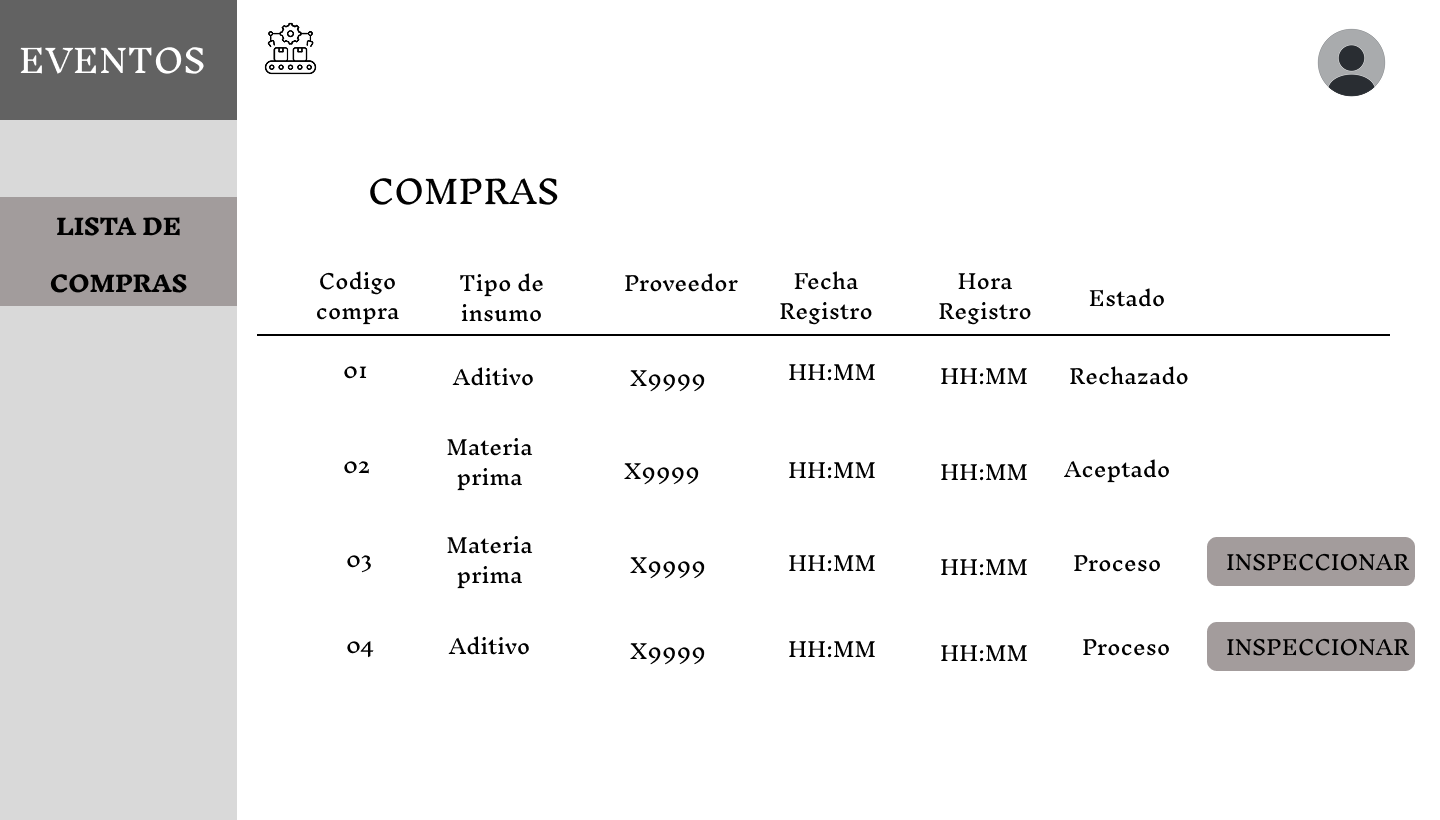
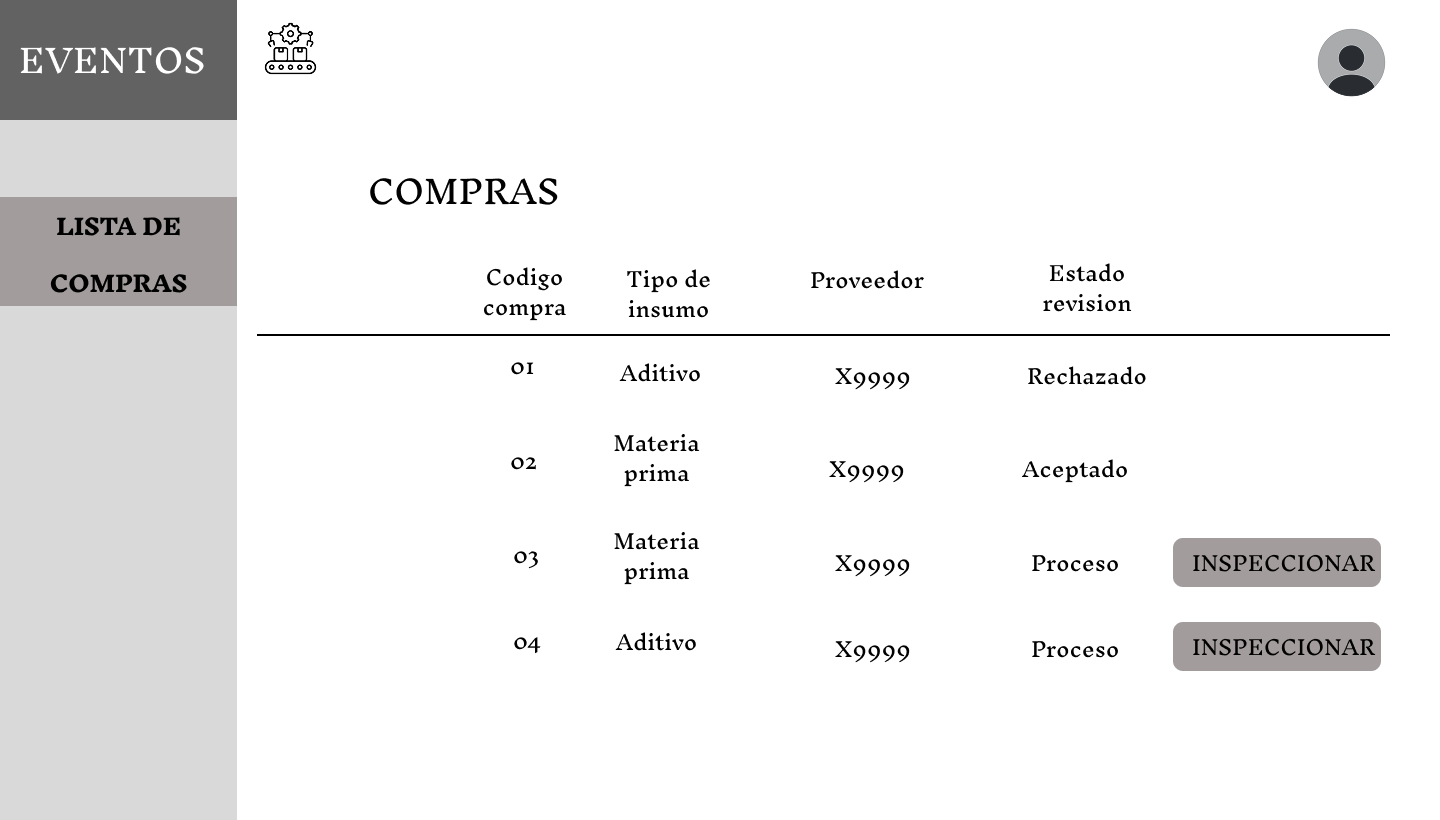
Cambios 1 (Módulo-Calidad)

diff --git a/3/3.3/3.3.md b/3/3.3/3.3.md
@@ -1,47 +1,67 @@
 # **3.3. Módulo de Control de Calidad**
 
-## **Caso de uso #1: Registrar Ingreso de Compra a Calidad**
+## **Caso de uso #1: Registrar Lote de Insumo Recibido en Calidad**
 
 | **ID**               | CU-01                                                                   |
 |----------------------|-------------------------------------------------------------------------|
 | **Actor(es)**        | Inspector de Calidad                                         |
-| **Descripción**      | Registrar la llegada de una compra al laboratorio de calidad para iniciar el proceso de inspección.         |
-| **Precondiciones**   | La compra debe estar registrada en el sistema.           |
-| **Flujo Principal**  | 1. El inspector accede a la pantalla de "Registro de Compra en Calidad". <br> 2. Visualiza los campos prellenados: Compra, Tipo de Insumo, Proveedor.  <br> 3. Ingresa la Fecha y Hora de ingreso al laboratorio. <br> 4. Confirma el registro.
+| **Descripción**      | Registrar la llegada de un lote de insumo al laboratorio para que pueda ser inspeccionado posteriormente.         |
+| **Precondiciones**   | 1. La compra debe estar registrada. <br> 2. El lote debe haber llegado físicamente al laboratorio.        |
+| **Flujo Principal**  | 1. El inspector accede a la pantalla “Lotes Pendientes de Registro en Calidad”. <br> 2. Selecciona el lote de insumo recibido.  <br> 3. Ingresa la Fecha y Hora de ingreso al laboratorio. <br> 4. Confirma el registro.
 | **Requerimientos Especiales** | Los datos de compra deben estar sincronizados con el módulo de compras.    |
-| **Frecuencia de Uso**| Cada vez que llega una compra a calidad.                     |
+| **Frecuencia de Uso**| Por cada lote que llega a calidad, incluso reposiciones.                  |
 
 ### **Flujo Principal:**
-1. El inspector accede a la pantalla de "Registro de Compra en Calidad".
-2. Visualiza los campos prellenados: Compra, Tipo de Insumo, Proveedor.
+1. El inspector accede a la pantalla “Lotes Pendientes de Registro en Calidad”.
+![Registro de Lotes de Insumo](Prototipos/Lote_insumo_pendiente_registro.png)
+2. Selecciona el lote de insumo recibido.
 3. Ingresa la Fecha y Hora de ingreso al laboratorio.
 4. Confirma el registro.
-![Registro de Compras](Prototipos/Registrar_compras.png)
+![Registro de Lotes de Insumo](Prototipos/Registrar_lote_insumo.png)
+
+
 
 ## **Caso de uso #2: Inspeccionar Lotes de Insumos**
 
 | **ID**               | CU-02                                                                   |
 |----------------------|-------------------------------------------------------------------------|
 | **Actor(es)**        | Inspector de Calidad                                       |
-| **Descripción**      | Inspeccionar los lotes de insumos que pertenecen a una compra y registrar su resultado. Si hay rechazo, permitir registrar un nuevo lote.           |
-| **Precondiciones**   | La compra debe haber sido ingresada al laboratorio de calidad.   |
-| **Flujo Principal**  | 1. Acceder a la pantalla de "Lista de Compras".  <br> 2. Seleccionar una compra en estado "Proceso" y ver los lotes de insumos.  <br> 3. Inspeccionar los lotes en estado "Pendiente".  <br> 4. Registrar el resultado: Aprobado o Rechazado, con comentarios y adjuntos.   <br> 5. Si es Rechazado, se habilita la opción de "Registrar nuevo lote".   <br> 6. Ingresar Fecha y Hora del nuevo lote. |
+| **Descripción**      | Inspeccionar los lotes de insumo ya registrados en el laboratorio y registrar el resultado de su evaluación.          |
+| **Precondiciones**   | 1. El lote debe estar registrado en calidad. <br> 2. Debe estar en estado "pendiente".   |
+| **Flujo Principal**  | 1. Acceder a la pantalla “Compras”.  <br> 2. Seleccionar una compra en estado "Proceso" y ver los lotes de insumos.  <br> 3. Visualizar sus lotes asociados en estado “Pendiente”.  <br> 4. Registrar el resultado: Aprobado o Rechazado, con comentarios y adjuntos. <br> 5. Confirmar y guardar inspección.   |
 | **Requerimientos Especiales** | El sistema debe actualizar el estado general de la compra según los resultados de los lotes. |
 | **Frecuencia de Uso**| Cada vez que se inspecciona una compra nueva o una reposición.                     |
 
 ### **Flujo Principal:**
-1. Acceder a la pantalla de "Lista de Compras".
+1. Acceder a la pantalla “Compras”.
 2. Seleccionar una compra en estado "Proceso" y ver los lotes de insumos.
 ![Lista de Compras](Prototipos/Lista_compras.png)
-3. Inspeccionar los lotes en estado "Pendiente".
-![Lista de Lotes de insumo](Prototipos/Lista_lotes_insumo.png)
+3. Visualizar sus lotes asociados en estado “Pendiente”.
+![Lista de Lotes de insumo](Prototipos/Lista_lotes_insumo_pendientes_inspeccion.png)
 4. Registrar el resultado: Aprobado o Rechazado, con comentarios y adjuntos.
+5. Confirmar y guardar inspección.
 ![Inspección de Lote de insumo](Prototipos/Inspeccionar_lote_insumo.png)
-5. Si es Rechazado, se habilita la opción de "Registrar nuevo lote".
-6. Ingresar Fecha y Hora del nuevo lote.
-![Registro de lote de insumo nuevo](Prototipos/Registrar_lote_insumo_nuevo.png)
 
-## **Caso de uso #3: Inspeccionar Proceso Productivo por Etapa (Mezclado, Moldeado y Secado)**
+## **Caso de uso #3: Visualizar Lotes Inspeccionados (Revisados)**
+
+| **ID**               | CU-03                                                                   |
+|----------------------|-------------------------------------------------------------------------|
+| **Actor(es)**        | Inspector de Calidad                                       |
+| **Descripción**      | Consultar el estado y detalle de los lotes de insumo ya inspeccionados (revisados).          |
+| **Precondiciones**   | Deben existir inspecciones ya registradas.   |
+| **Flujo Principal**  | 1. Acceder a la pantalla “Lotes Revisados”.  <br> 2. Visualizar tabla con información del lote de insumo inspeccionado  <br> 3. Hacer click en [Ver detalle] para ver información adicional.   |
+| **Requerimientos Especiales** | Ver historial consolidado por compra. |
+| **Frecuencia de Uso**| Cada vez que se desea ver la trazabilidad de los estados del lote de insumo        |
+
+### **Flujo Principal:**
+1. Acceder a la pantalla “Lotes Revisados”.
+2. Visualizar tabla con información del lote de insumo inspeccionado
+3. Hacer click en [Ver detalle] para ver información adicional.
+![Inspección de Lote de insumo](Prototipos/Lista_lotes_insumo_revisados.png)
+
+
+
+## **Caso de uso #4: Inspeccionar Proceso Productivo por Etapa (Mezclado, Moldeado y Secado)**
 
 | **ID**               | CU-03                                                                   |
 |----------------------|-------------------------------------------------------------------------|
@@ -62,7 +82,7 @@
 5. Registrar: ID Inspector, Estado, Tipo de fallo, Cantidad perdida, Comentarios, Adjuntos.
 ![Inspección de Proceso por Lote de Producto](Prototipos/Inspeccionar_proceso_lote_producto.png)
 
-## **Caso de uso #4: Inspeccionar Etapa de Envasado**
+## **Caso de uso #5: Inspeccionar Etapa de Envasado**
 
 | **ID**               | CU-04                                                                   |
 |----------------------|-------------------------------------------------------------------------|
@@ -79,7 +99,7 @@
 3. Confirmar la inspección.
 ![Inspección de Proceso de Envasado](Prototipos/Inspeccionar_envasado.png)
 
-## **Caso de uso #5: Inspeccionar Picking**
+## **Caso de uso #6: Inspeccionar Picking**
 
 | **ID**               | CU-05                                                                   |
 |----------------------|-------------------------------------------------------------------------|
@@ -99,14 +119,20 @@
 5. Si hay defectos, se notifica a picking y se crea nuevo ID_Picking.
 6. Si está correcto, se aprueba para distribución.
 
-## **Caso de uso #6: Consultar Historial de Inspecciones**
+## **Caso de uso #7: Consultar Historial de Inspecciones**
 
 | **ID**               | CU-06                                                                   |
 |----------------------|-------------------------------------------------------------------------|
 | **Actor(es)**        | Inspector de Calidad                                     |
-| **Descripción**      | Permite visualizar y filtrar todas las inspecciones realizadas a lo largo del proceso (insumos, producción, envasado y picking) para fines de trazabilidad, auditoría y control        |
-| **Precondiciones**   | El usuario debe estar autenticado en el sistema. Deben existir registros de inspecciones previas.   |
-| **Flujo Principal**  | 1. El usuario accede a la opción "Historial de Inspecciones".  <br> 2. Selecciona filtros como tipo de inspección, rango de fechas, estado o inspector.  <br> 3. El sistema muestra una tabla con resultados según los filtros aplicados.  <br> 4. El usuario puede hacer clic en "Ver Detalle" para acceder a la información completa de una inspección.     |
-| **Requerimientos Especiales** | Permitir visualización por tipo de inspección (Recepción de Compra, Producción, Envasado, Picking). Mostrar información consolidada desde las 4 entidades de inspección.   |
-| **Frecuencia de Uso**| Frecuente, especialmente por parte del área de calidad para revisión y seguimiento.
-![Lista de Pickings](Prototipos/historial_inspecciones.png)
+| **Descripción**      | Permite visualizar y filtrar todas las inspecciones realizadas a lo largo del proceso (insumos, producción, envasado y picking) para fines de trazabilidad, auditoría y control         |
+| **Precondiciones**   | El usuario debe estar autenticado en el sistema. Deben existir registros de inspecciones previas.     |
+| **Flujo Principal**  | 1. El usuario accede a la opción "Historial de Inspecciones".  <br> 2. Selecciona filtros como tipo de inspección, rango de fechas, estado o inspector.  <br> 3. El sistema muestra una tabla con resultados según los filtros aplicados. <br> 4. El usuario puede hacer clic en "Ver Detalle" para acceder a la información completa de una inspección.  |
+| **Requerimientos Especiales** | Identificación de registros duplicados por mismo Código_Picking.   |
+| **Frecuencia de Uso**| Por cada picking pendiente.  |
+
+### **Flujo Principal:**
+1. El usuario accede a la opción "Historial de Inspecciones".
+2. Selecciona filtros como tipo de inspección, rango de fechas, estado o inspector.
+3. El sistema muestra una tabla con resultados según los filtros aplicados.
+4. El usuario puede hacer clic en "Ver Detalle" para acceder a la información completa de una inspección.
+![Historial de Inspecciones](Prototipos/historial_inspecciones.png)
